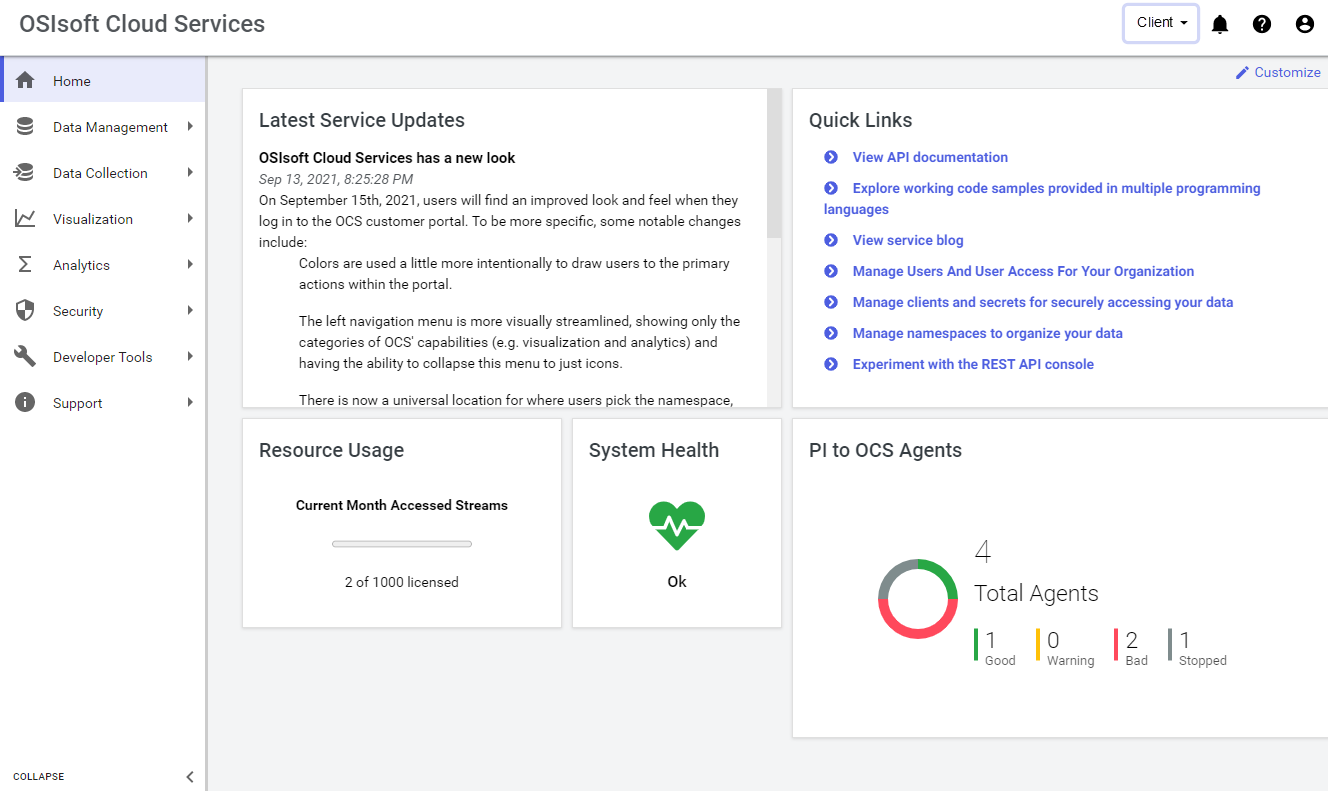
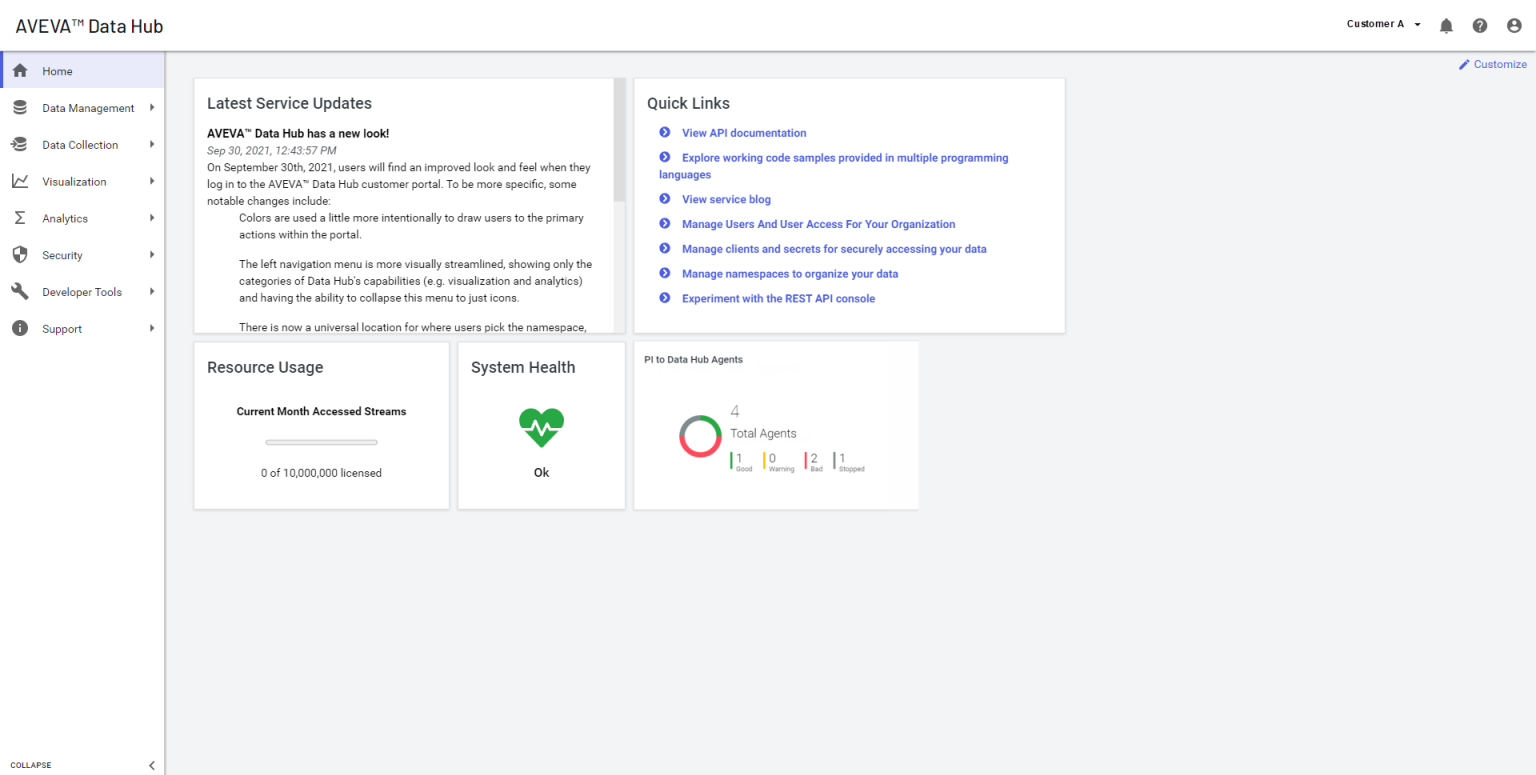
Updates to namespaces topics & intro to portal
Updated graphics in intro to portal topic
Edited namespaces topics to include folders

diff --git a/content/set-up/namespaces/namespaces-concept.md b/content/set-up/namespaces/namespaces-concept.md
@@ -2,13 +2,13 @@
 uid: ccNamespaces
 ---
 
-# Namespaces
+# Folders and namespaces
 
-A namespace is a logical unit of organization for data within a tenant. Each tenant may contain more than one namespace. Before OCS can receive data for a given tenant, a namespace must exist within the scope of that tenant. When you create a namespace, you specify the region for storing data within it; for example, West US.
+When you first subscribe and turn on AVEVA™ Data Hub for your organization, you create a folder in AVEVA™ Connect that is linked to a namespace. Namespaces represent a logical unit of organization for data within a tenant. Each tenant may have more than one namespace. Before AVEVA™ Data Hub can receive data for a given tenant, a namespace must exist within the scope of that tenant. When you create a folder in AVEVA™ Connect, you specify the region where data will be stored; for example, West US.
 
 When you create a namespace, data processing resources are allocated; for example, SDS and asset service, and the associated storage resources to support that namespace. Each namespace and its resources are distinct and separate from all other namespaces. The resources are scoped to the namespace. Which means, you can create an SdsType or an SdsStream object with the same name in two different namespaces.
 
-Data stored within a namespace is tied to that namespace and its region, and you cannot directly transfer the data to any other namespace (or region). To move data between namespaces, you must export the data from the source namespace in AVEVA™ Data Hub, then import it into the destination namespace.
+Data stored within a namespace is tied to that namespace and its region. You cannot directly transfer the data to any other namespace (or region). To move data between namespaces, you must export the data from the source namespace in AVEVA™ Data Hub, then import it into the destination namespace.
 
 ## PI Server counterpart
 

diff --git a/content/set-up/namespaces/namespaces-best-practices.md b/content/set-up/namespaces/namespaces-best-practices.md
@@ -2,14 +2,16 @@
 uid: bpNamespaces
 ---
 
-# Namespaces best practices
+# Folder naming best practices
 
-Use one of the following strategies when creating namespaces:
+Use one of the following strategies when creating folders/namespaces:
 
 - Strategy 1 &ndash; Create a separate namespace for each environment. For example, Production, Development, Staging, and so on.
 
-- Strategy 2 &ndash; Create a separate namespace for each of your customers.
+- Strategy 2 &ndash; Create a separate folder/namespace for each of your customers.
+ 
+    **Note:** Folders/namespaces are created in AVEVA™ Connect. 
 
 Use the first strategy for tenants where all the data belongs to one organization. Keep in mind, if you need to use the data together, you should store it together in one namespace.
 
-Use the second strategy if you are providing a service to customers that uses AVEVA™ Data Hub as a backend. This strategy makes it easier to avoid naming conflicts and to manage security and assign permissions. Note that objects and collections do not automatically inherit security from their namespace. If your organization has internal data that does not belong to a customer, consider combining both strategies. Create separate namespaces for each customer and create another namespace for internal use that includes your Production, Development, and Staging environments.
+Use the second strategy if you are providing a service to customers that uses AVEVA™ Data Hub as a backend. This strategy makes it easier to avoid naming conflicts and to manage security and assign permissions. Note that objects and collections do not automatically inherit security from their folder and namespace. If your organization has internal data that does not belong to a customer, consider combining both strategies. Create separate namespaces for each customer and create another namespace for internal use that includes your Production, Development, and Staging environments.
